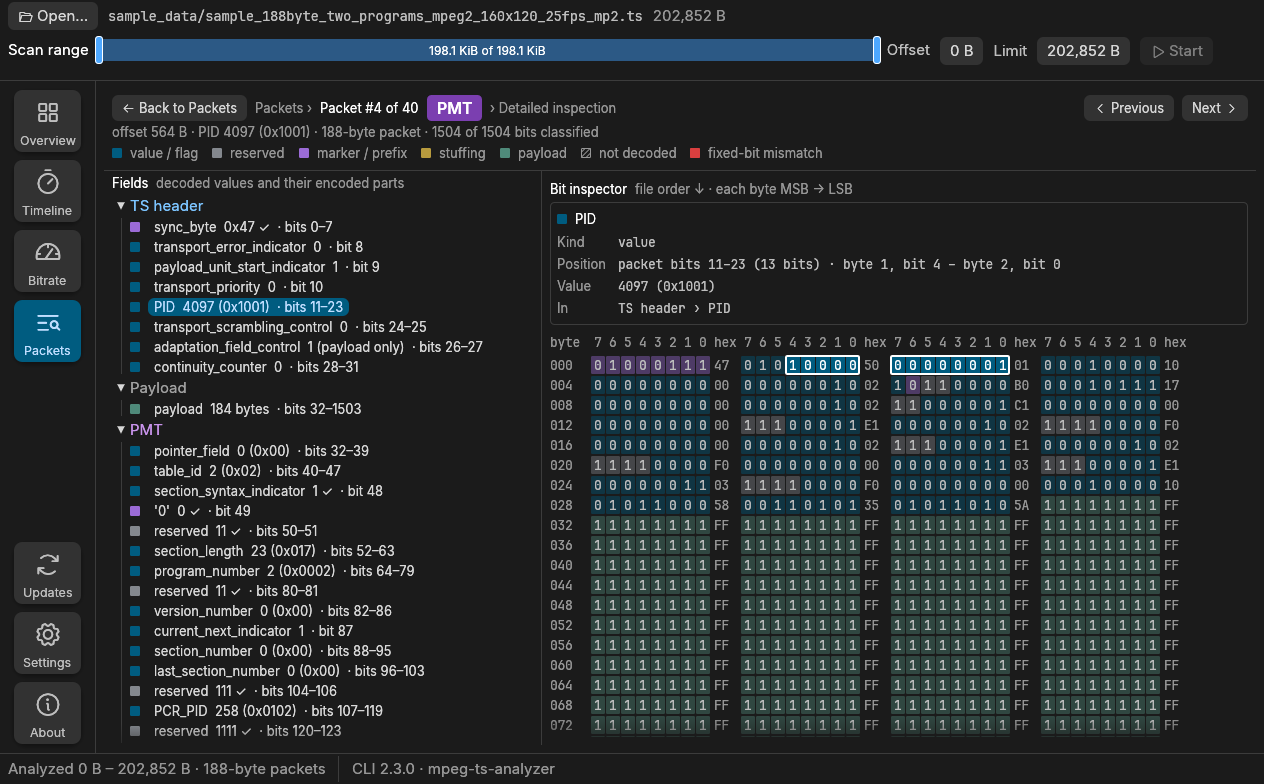
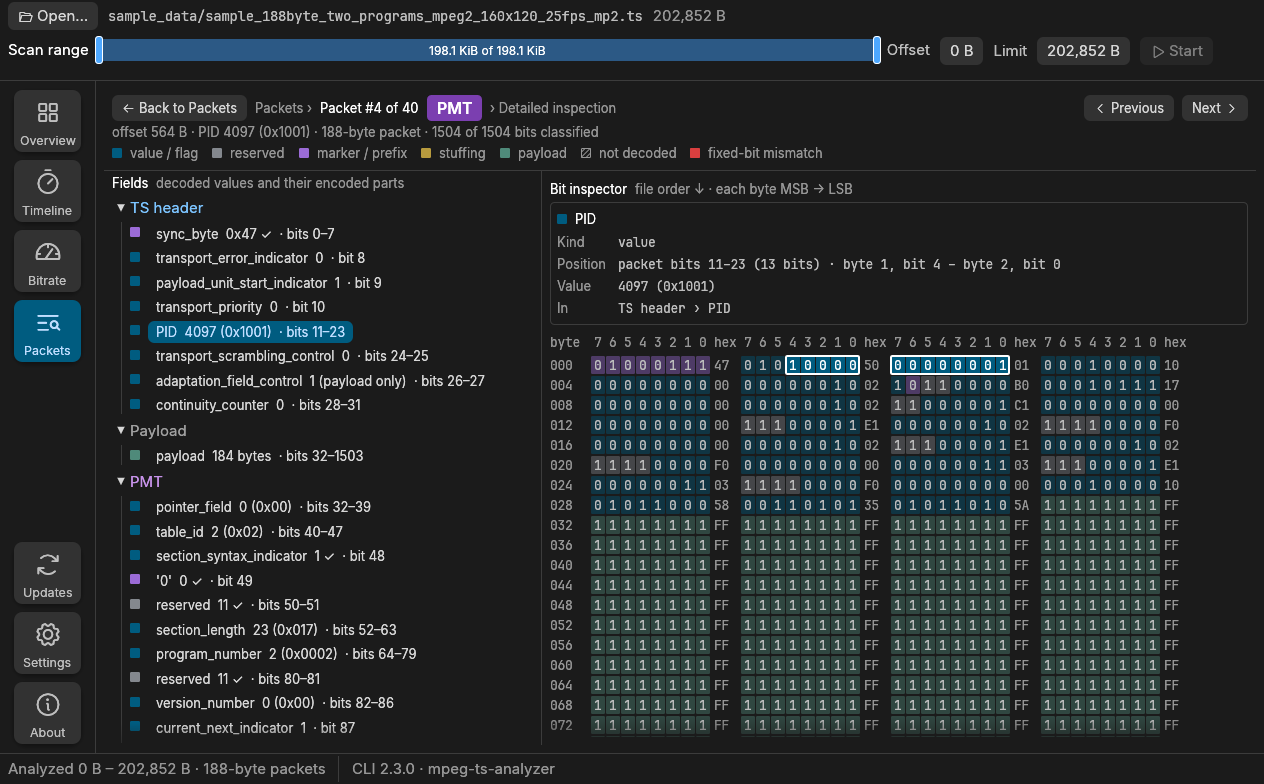
GUI: loosen the Detailed inspection field list a little
The denser rows of 59e9c78 were too tight. Button padding 8x3, row height
19 and item spacing 2.5 put each line at about 24 px, halfway between the
original 29 px and 20 px.

Changed region(s): [[0.0926, 0.2449, 0.3703, 0.949]]

diff --git a/gui/src/views/wire_layout.rs b/gui/src/views/wire_layout.rs
@@ -717,9 +717,9 @@ fn facts(ui: &mut egui::Ui, id: &str, rows: &[(String, String)]) {
 /// are dense (small button padding and spacing) so a long table fits.
 pub fn field_list(ui: &mut egui::Ui, model: &Model, state: &mut State) {
     let spacing = ui.spacing_mut();
-    spacing.button_padding = egui::vec2(6.0, 1.0);
-    spacing.interact_size.y = 18.0;
-    spacing.item_spacing.y = 2.0;
+    spacing.button_padding = egui::vec2(8.0, 3.0);
+    spacing.interact_size.y = 19.0;
+    spacing.item_spacing.y = 2.5;
     for (index, layer) in model.layers.iter().enumerate() {
         let color = layer_color(byte_layer(&layer.name));
         egui::CollapsingHeader::new(
